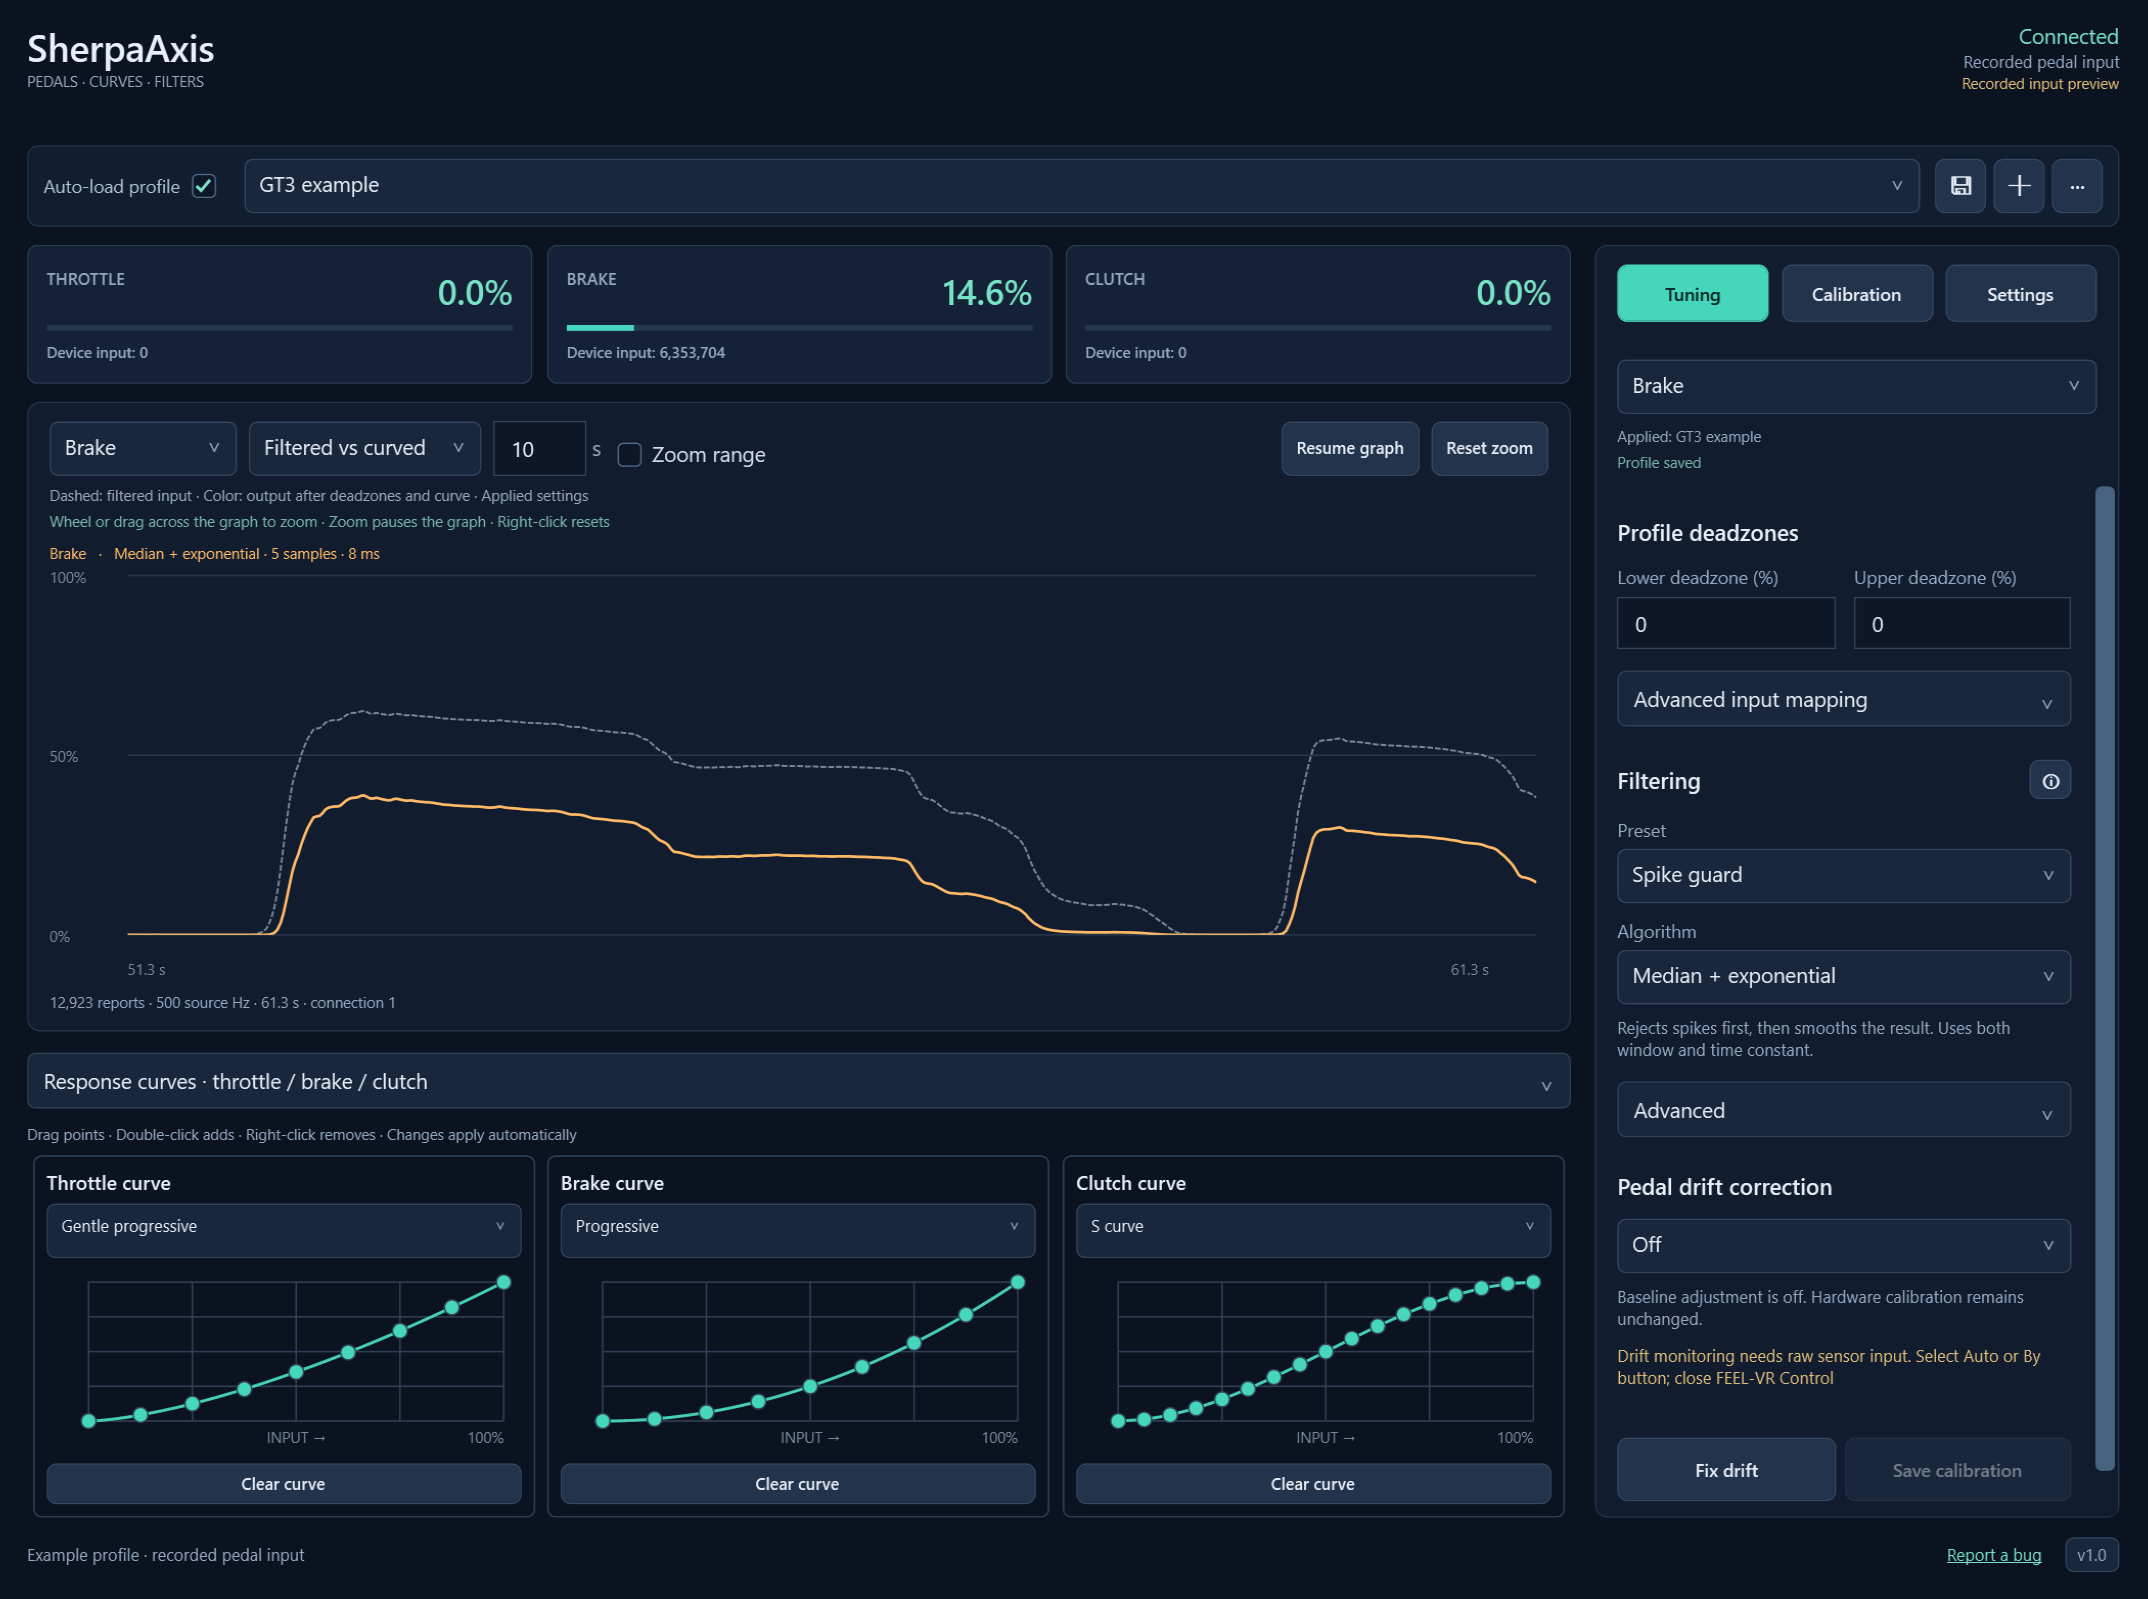
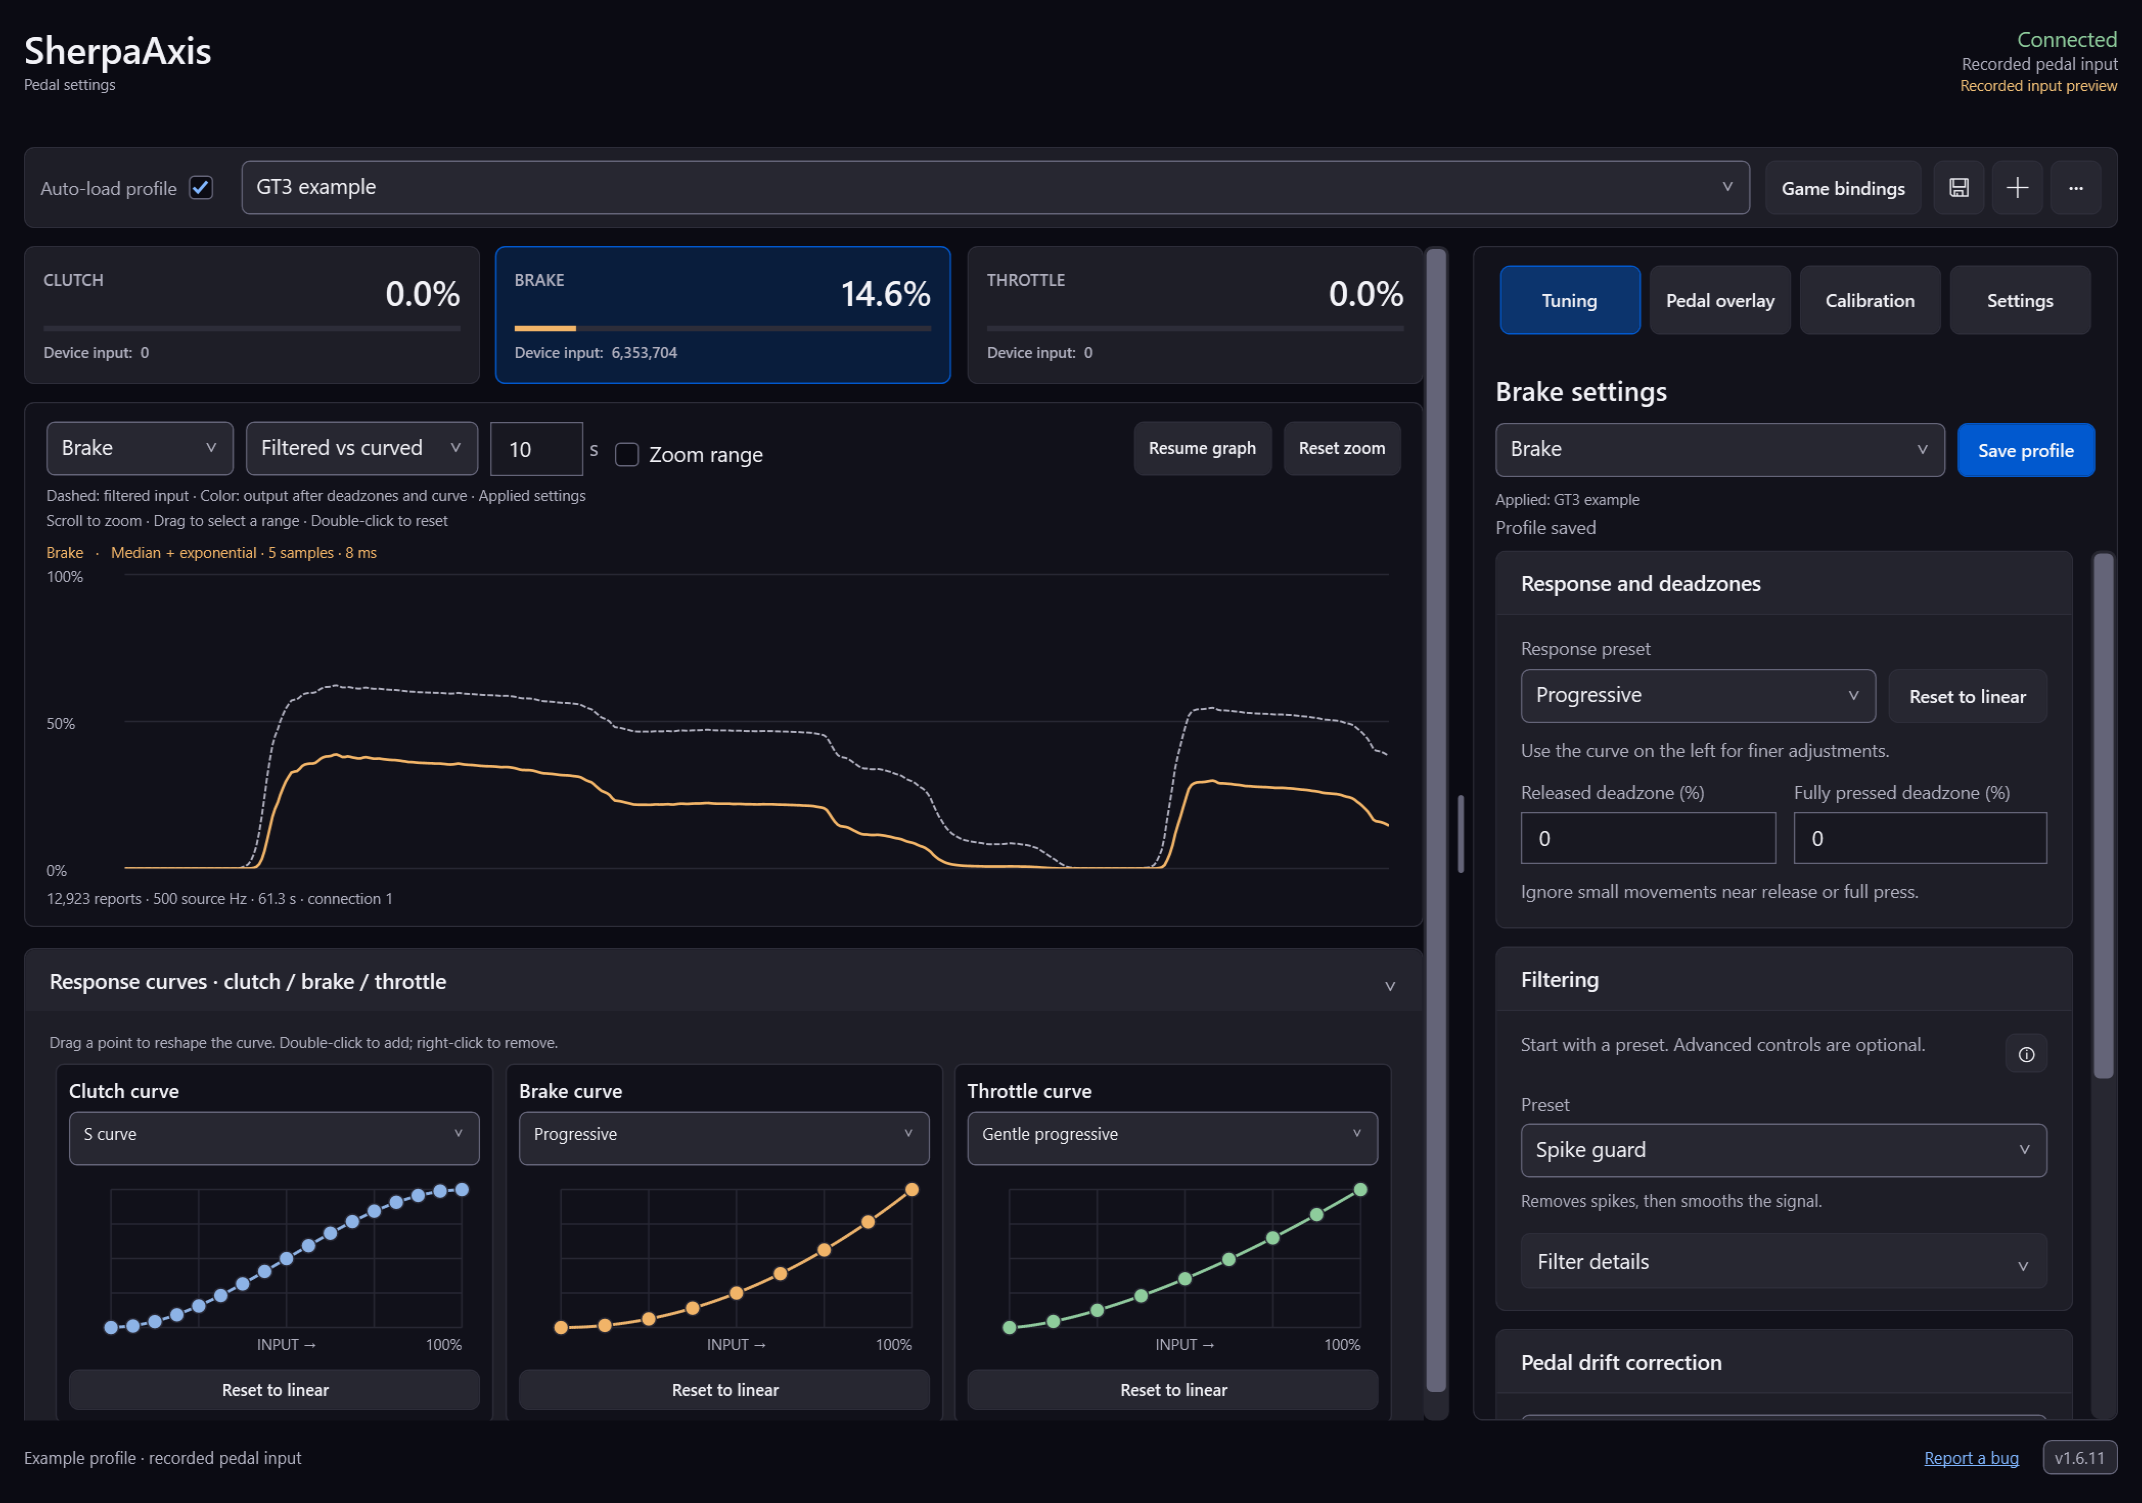
docs: refresh README screenshots for current UI

diff --git a/README.md b/README.md
@@ -12,9 +12,10 @@ Windows 10 / 11 · x64 · FEEL-VR Pedals One · English & Ukrainian
 
 </div>
 
-![SherpaAxis overview showing a pedal graph, profile controls, individual curves and tuning settings](docs/screenshots/app-overview.png)
+![Current SherpaAxis UI with the selected brake card, Brake settings heading, four workspace tabs, signal graph and response curves](docs/screenshots/app-overview.png)
 
-*An example profile with recorded pedal input and a Progressive brake curve.
+*The current dark UI with a recorded pedal-input example and a Progressive brake curve.
+The highlighted Brake card matches the Brake settings panel.
 Dashed grey is filtered input; orange is the output after the curve. The pedal
 card and the right edge of the graph show the same recorded moment.*
 
@@ -26,10 +27,24 @@ own curve, deadzones and filtering settings.
 
 **Tuning** groups response presets, deadzones, filtering and drift correction for
 the selected pedal. Changes apply immediately; **Save profile** keeps them.
-**Calibration** guides you through capturing the range, reviewing it and saving
-to the controller. **Settings** groups app preferences and device tools and includes
-search. Drag the divider to resize the controls pane; double-click it to restore
-the default width.
+**Pedal overlay** has the in-game display controls. **Calibration** guides you
+through capturing the range, reviewing it and saving to the controller. **Settings**
+groups app preferences and device tools, with search to find a setting quickly.
+Drag the divider to resize the controls pane; double-click it to restore the default width.
+
+<details>
+<summary><strong>See the calibration and settings tabs</strong></summary>
+
+![Current Calibration tab showing range capture, range review and directly accessible calibration backup and restore buttons](docs/screenshots/calibration.png)
+
+*Calibration preview: capture and review the pedal range, or use the visible backup
+and restore buttons. Hardware changes start only when you choose an action.*
+
+![Current Settings tab with settings search, language selection and window and startup preferences](docs/screenshots/settings.png)
+
+*Search settings or browse the grouped app preferences and device tools.*
+
+</details>
 
 | What you want to do | How SherpaAxis helps |
 | --- | --- |
@@ -46,9 +61,10 @@ Start with a preset, then drag points to adjust it. Double-click to add a point;
 right-click to remove one. Changes apply automatically, so you can watch the output
 as you tune. Save the profile when you want to keep your changes.
 
-![Individual throttle, brake and clutch curves with gentle progressive, progressive and S curve presets](docs/screenshots/pedal-curves.png)
+![Current response-curve editor showing clutch, brake and throttle with S curve, Progressive and Gentle progressive presets](docs/screenshots/pedal-curves.png)
 
-*Three example curves: Gentle progressive throttle, Progressive brake and S curve clutch.
+*Left to right: S curve clutch, Progressive brake and Gentle progressive throttle.
+Each editor has the same **Reset to linear** action used in the tuning panel.
 The brake curve maps 50% input to 25% output, giving more input travel to control the lower output range.*
 
 ### See what filtering changes
@@ -73,10 +89,15 @@ start of a race. One binding handles both switching the assist on and off and
 holding it during a launch.
 
 In **Tuning → Clutch**, choose a **Bite point mode**, set **Bite point output (%)**
-and click **Bind** to assign your button. Double-tap the button to enable or
+and click **Assign button…** to choose your button. Double-tap it to enable or
 disable the assist, or use the **Enabled** checkbox. Hold it for at least **250 ms**
 to activate the selected mode's held behavior; releasing applies its released
 behavior immediately.
+
+![Current clutch bite-point settings with Hold full range at 40 percent, an assigned controller button and the assist enabled](docs/screenshots/clutch-settings.png)
+
+*Hold full range configured at 40%, with controller button 4 assigned. Mode,
+percentage and binding are saved in the profile.*
 
 | Mode | While holding the button | After releasing the button |
 | --- | --- | --- |
@@ -107,7 +128,7 @@ shift both calibration endpoints together while preserving the range and deadzon
 
 - **Auto** waits for five consistent press-and-release cycles before correcting downward drift.
 - **By button** checks for a stable release while you hold a keyboard key or wheel/gamepad button.
-- **Fix drift** provides the same manual check directly in the app. Keep your foot off and hold it for at least one stable second, until correction finishes.
+- **Hold to fix drift** provides the same manual check directly in the app. Keep your foot off and hold it for at least one stable second, until correction finishes.
 
 First calibrate the affected pedal in SherpaAxis so the app can retain its original
 raw range. If the checks disagree, no new correction is applied. Keep your foot
@@ -135,6 +156,11 @@ Click a game card to select it; a highlighted card and check mark show your choi
 Game icons are included with the app and work offline. Use **Add game…** to select
 another game’s `.exe`. Added games appear in a separate list with a remove button.
 Choose **Save** to keep the selection.
+
+![Current Game bindings dialog with Assetto Corsa Competizione assigned to the GT3 example profile and an Add game button for other executables](docs/screenshots/game-bindings.png)
+
+*The example profile is bound to ACC. Select a game card or add another game's
+executable, then save the assignment.*
 
 A small label at the bottom of each card shows its current profile binding.
 **Reassign here** appears only for another game that is currently running while
@@ -286,12 +312,13 @@ See the [installation and device guide](docs/setup.md) for more detail.
 <details>
 <summary><strong>Can I back up calibration and update pedal firmware?</strong></summary>
 
-Use **Calibration → Device tools** for hardware calibration backups and restoration.
+Use **Calibration → Backups and recovery** for calibration backups and restoration.
+Both buttons are visible without expanding the **Advanced** section.
 After restoring a file, review the ranges and choose **Save to controller** to keep
 them, or **Discard changes** to return to the previous calibration. A different
 USB port is supported when the controller identity and HID capabilities match.
 
-In **Settings → Firmware update**, you can check firmware, back up calibration,
+In **Settings → Firmware and controller**, you can check firmware, back up calibration,
 open update logs or update the supported firmware.
 
 Choose **Update firmware**, select a bundled image and click **Flash**. Keep the
@@ -319,7 +346,7 @@ Changed application files can prevent an automatic update; use a manual update
 if you have modified the packaged files. Your profiles, settings and bindings
 are retained. Close games and FEEL-VR Control before starting an update.
 
-**Settings → Updates** offers **Check now**, a manual release-page link, update
+**Settings → App updates** offers **Check now**, a manual release-page link, update
 logs and an option to disable startup checks. No pedal data or profiles are sent.
 Manual installation through a newer `Setup.exe` remains available.
 
@@ -334,7 +361,7 @@ you need before choosing it.
 
 ## Found a problem?
 
-Use **Settings → Help → Report a problem…**, or **Report a bug** in the footer.
+Use **Settings → Help and diagnostics → Report a problem…**, or **Report a bug** in the footer.
 SherpaAxis saves a diagnostic ZIP, selects it in File Explorer and opens a GitHub
 issue draft with version and system details. Describe the problem and the steps to
 reproduce it, review the ZIP, then attach it to the issue before submitting.
